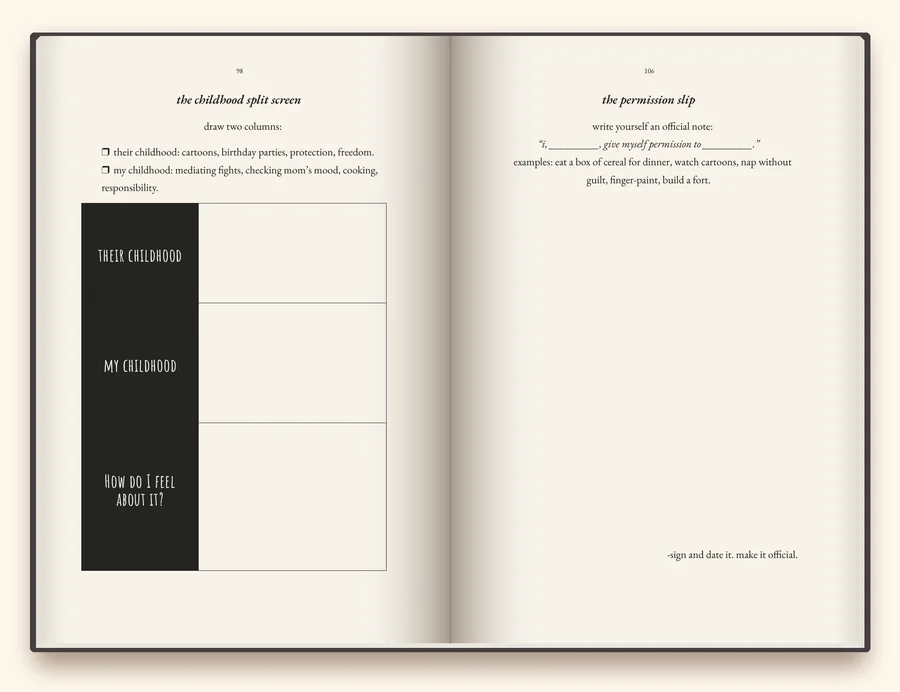
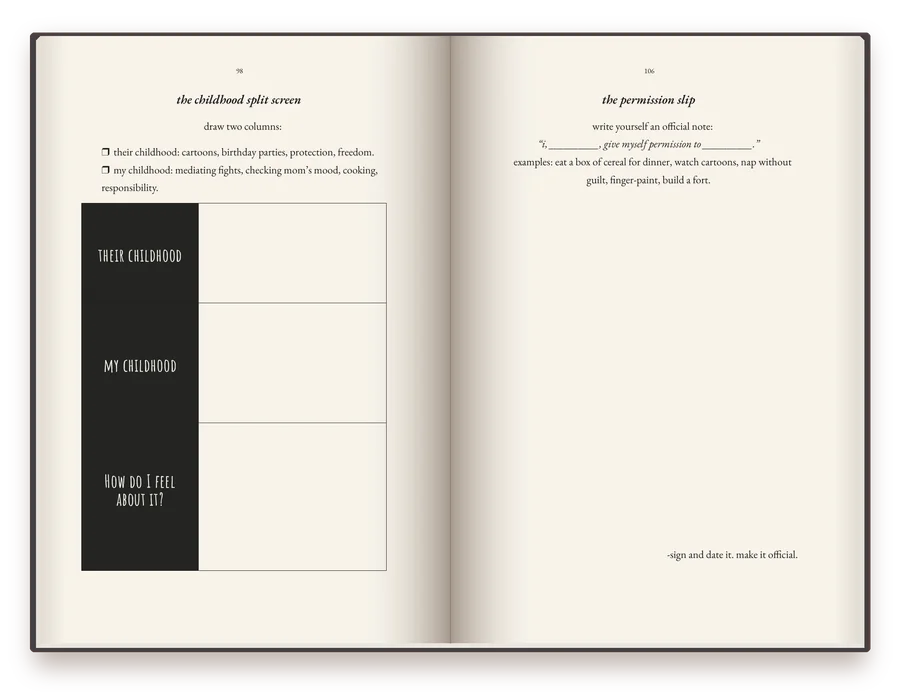
LP: lighter page background (#FFFBF6); book spreads with transparent background so they match any page colour
Claude-Session: https://claude.ai/code/session_01LL1mB2P2VRvoL1n8mHXFs8

diff --git a/index.html b/index.html
@@ -57,7 +57,7 @@ fbq('track','PageView',{},{eventID:pageViewEventId});
 <style>
   /* One background, one accent. Everything else is type + hairlines. All lowercase, like the book. */
   :root{
-    --bg:#FEF7EC;
+    --bg:#FFFBF6;
     --ink:#2B1218;           /* darkest burgundy, all body text */
     --muted:#5E434A;         /* burgundy-grey, secondary text (7:1 on cream) */
     --line:#EBDCCD;          /* hairlines */
